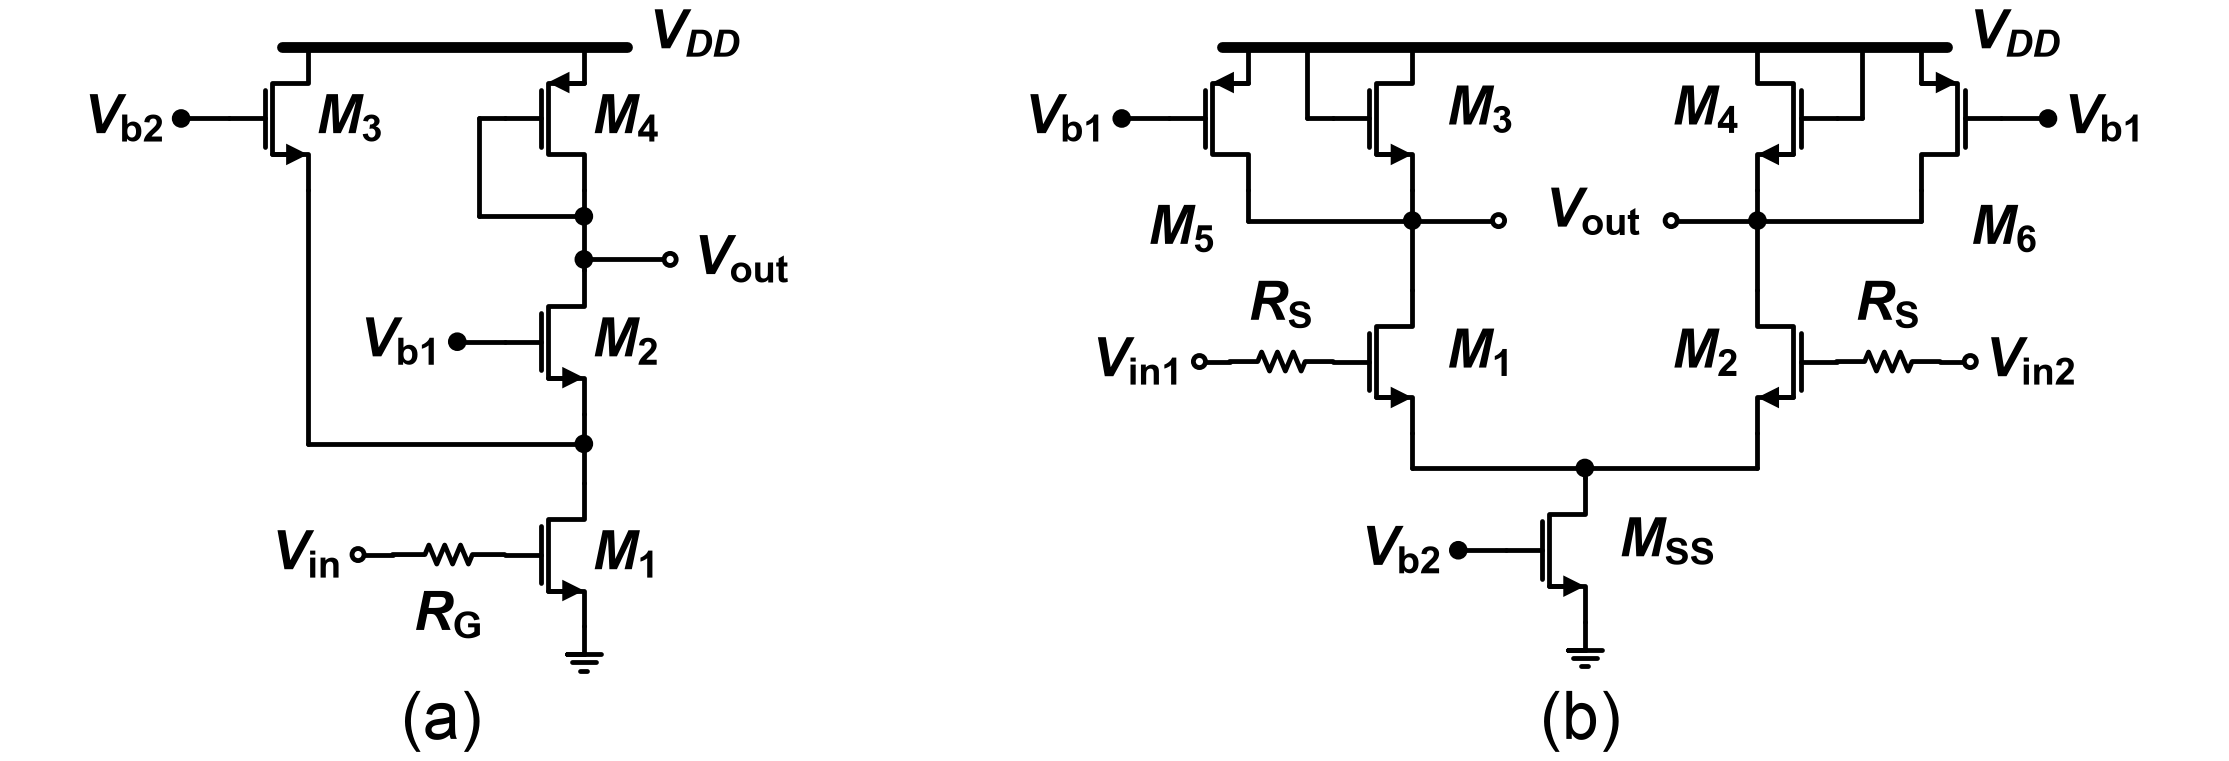
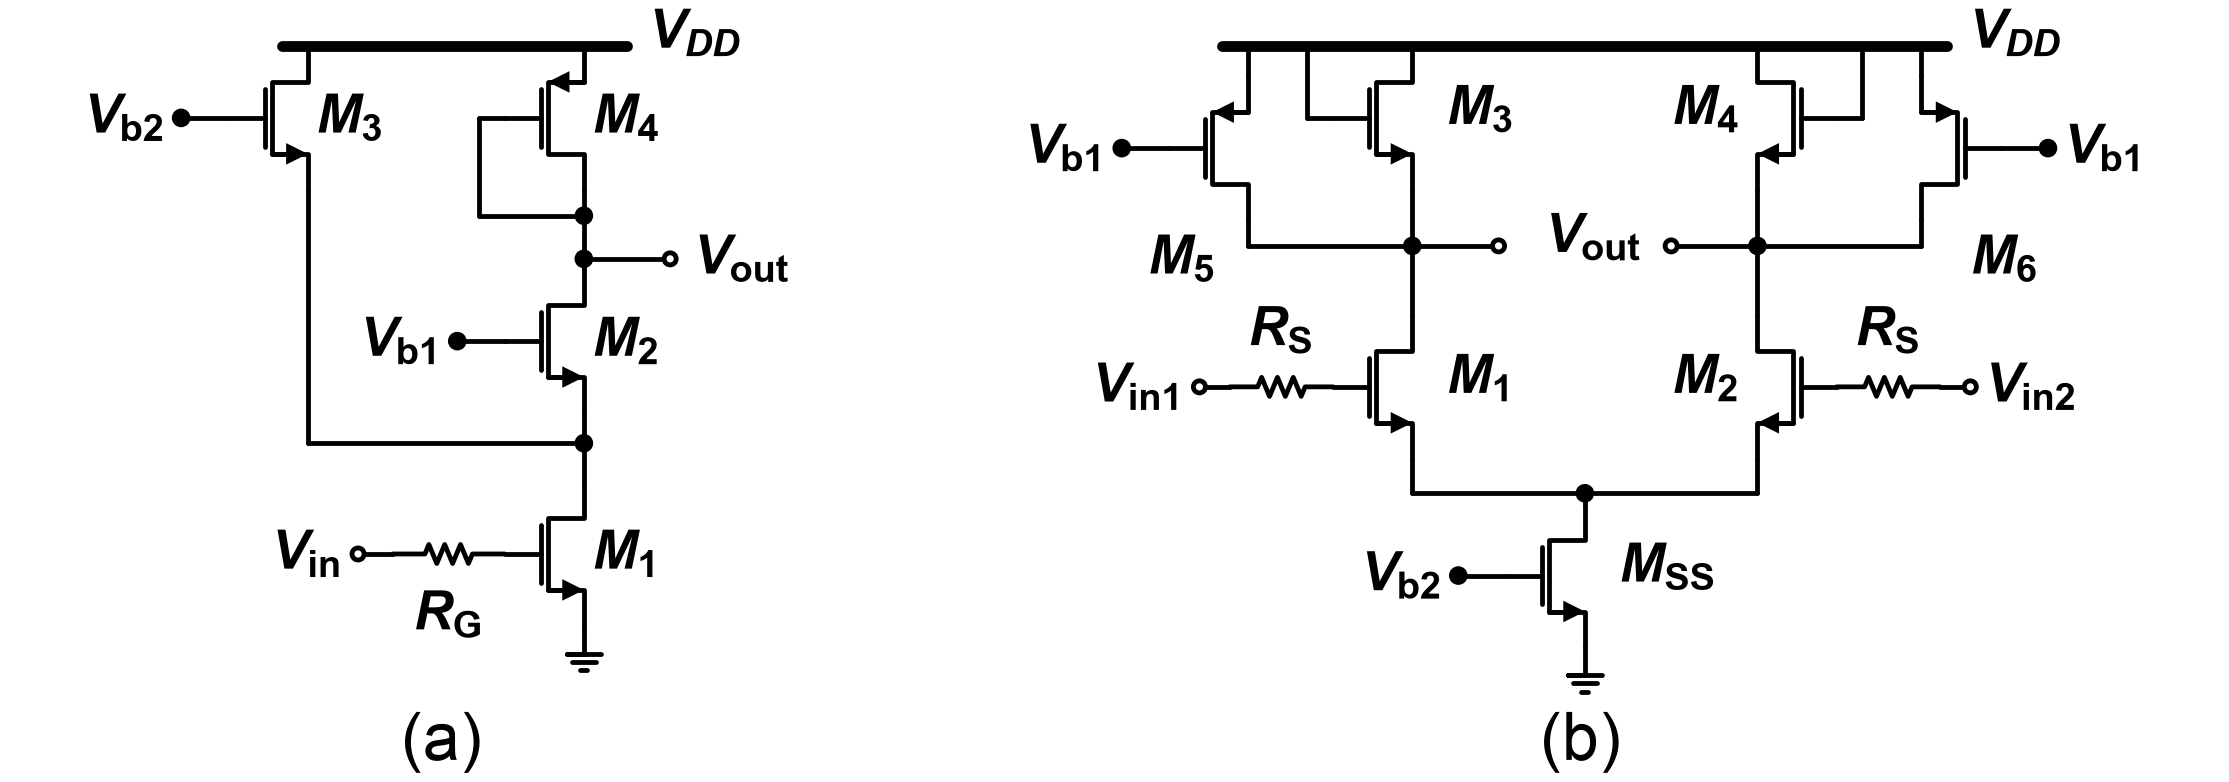
fix(2023-1 기말): apply redraw review

diff --git a/from_the_past/md/2023-1_기말/figures/redrawn/fig-Q1.py b/from_the_past/md/2023-1_기말/figures/redrawn/fig-Q1.py
@@ -5,6 +5,7 @@ from schem_style import OPEN_R, Resistor, caption, dot, gate_terminal, new_drawi
 L = 0.12       # 소자 사이 짧은 배선
 GAP = 0.2      # 소자 라벨과 기호 사이 간격
 RAIL_Y = 8.0   # 두 패널의 V_DD 레일 높이
+STUB = 0.35    # (b) M5/M6 소스와 레일 사이 세로선
 
 
 def vdd_label(d, x_end):
@@ -52,13 +53,15 @@ def half_b(d, xo, mirror):
     """(b)의 한쪽: xo = 출력 세로줄(M3/M4, out, M1/M2). 바깥쪽 pmos M5/M6."""
     out = 1 if mirror else -1          # 바깥 쪽 부호
     xp = xo + out * 1.9                # M5/M6 소스 세로줄
-    mp = pmos(d, at=(xp, RAIL_Y), anchor="source", mirror=mirror)
+    # hwp 원본처럼 M5/M6는 M3/M4보다 조금 낮고, 소스가 짧은 세로선으로 레일에 붙는다
+    d.add(elm.Line().down().at((xp, RAIL_Y)).length(STUB))
+    mp = pmos(d, at=d.here, anchor="source", mirror=mirror)
     gate_terminal(d, mp.gate, r"$V_\mathrm{b1}$", right=mirror)
     mn = nmos(d, at=(xo, RAIL_Y), anchor="drain", mirror=mirror)
     # M3/M4 게이트 → 바깥으로 짧게 → 위로 레일
     d.add(elm.Line().at(mn.gate).tox(mn.gate.x + out * 0.3))
     d.add(elm.Line().up().toy(RAIL_Y))
-    d.add(elm.Line().down().at(mn.source).length(0.35)); o = dot(d)
+    d.add(elm.Line().down().at(mn.source).length(STUB + 0.3)); o = dot(d)
     # M5/M6 드레인 → 조금 아래 → 안쪽으로 출력 접속점
     d.add(elm.Line().down().at(mp.drain).toy(o.center.y))
     d.add(elm.Line().at((xp, o.center.y)).tox(xo))

diff --git a/docs/superpowers/reports/redraw/2023-1_기말.md b/docs/superpowers/reports/redraw/2023-1_기말.md
@@ -1,0 +1,60 @@
+# 다시 그리기 검토 — 2023-1 기말 (Q1–Q5)
+
+- 대상: `63db526..6bfde7c` (fig-Q1…Q5 `.py`/`.png` 10개만 추가됨)
+- 절차 C 적용. `draw_exam.py --compare` 실행 결과 ERROR·WARN 없음, 종료 코드 0. 실행 뒤 `git status --short` 깨끗함(다시 그린 PNG가 커밋본과 같음).
+- 라벨 간격은 작성자 스크립트를 다시 돌린 것과 별도로, `save_png`와 같은 기하(`subplots_adjust(0,0,1,1)`, 432 dpi, 86.4 px/단위)로 직접 다시 쟀다. 두 결과는 0.01단위 안에서 같다.
+
+## 지적 표
+
+| 그림 | 항목 | 문제 | 제안 |
+|---|---|---|---|
+| Q1(a) | 넷리스트 연결 | 지적 없음. M4 다이오드 연결(게이트→왼쪽→아래→위 V_out 점), M3 드레인=레일·소스→n1, M2 게이트←V_b1, R_G: V_in→M1 게이트, M1 소스 접지 모두 맞음 | — |
+| Q1(a) | 접속점·교차 | 지적 없음. 점 3개(위 Vout, 아래 Vout, n1), 교차 없음 | — |
+| Q1(a) | 표시·방향 | 지적 없음. M 라벨 모두 오른쪽, R_G 아래, V_b2/V_b1/V_in 왼쪽, V_out 오른쪽, nmos 화살표 바깥·pmos 화살표 안쪽 | — |
+| Q1(b) | 넷리스트 연결 | 지적 없음. M3/M4 게이트→바깥→레일, M5/M6 드레인→아래→안쪽 out 점, M1/M2 드레인=out1/out2, 소스→n3→M_SS, R_S 두 개, V_b1 두 개, V_b2 | — |
+| Q1(b) | 접속점·표시 | 지적 없음. 점 3개(out1, out2, n3). M4·M6·M2 좌우 반전, M4/M2 라벨 왼쪽, M3/M1/M_SS 오른쪽, V_out 하나가 두 원 사이 | — |
+| Q1(b) | hwp 대조 (모양) | Minor. hwp에서는 M5/M6가 M3/M4보다 조금 낮고 소스가 짧은 세로선으로 레일에 붙는다. 다시 그린 그림은 네 소자 모두 레일에 바로 붙는다. 연결에는 영향 없음 | 그대로 두어도 됨. 원본에 더 맞추려면 M5/M6를 0.3–0.4단위 내리고 소스 세로선을 넣는다 |
+| Q2 | 넷리스트·접속점·표시 | 지적 없음. R_D→n1, M2 게이트→왼쪽→아래→n1, M1 좌우 반전(게이트→V_b, 화살표 왼쪽 바깥), n2–R_F–Vout, R_M 접지, I_in 화살표 위. 점 3개, 라벨 쪽 모두 맞음 | — |
+| Q3 | 넷리스트 연결 | 지적 없음. M5·M6 게이트 공통선 가운데 점→아래→n1(다이오드), X→M3 드레인·M5 드레인, X→오른쪽→위→M1 게이트, M1→I_out→Laser→n3→R_M→접지, M4 게이트→n3 곧게, M3/M4 소스→n4→I_SS(아래)→접지 | — |
+| Q3 | 접속점·교차 | 지적 없음. 점 5개, X선이 n1–M4 세로선과 점 없이 교차 1곳 | — |
+| Q3 | Laser 상자 | 지적 없음. 선 네 개와 "Laser" 라벨로 그렸고 원본과 같은 모양으로 읽힌다(컨트롤러 설명대로 의도한 방식) | — |
+| Q3 | 표시·방향 | 지적 없음. M5·M4 좌우 반전, M5/M4 라벨 왼쪽, M6/M1/M3 오른쪽, X 왼쪽, I_out 아래 방향 화살표에 라벨 오른쪽, I_SS 아래 방향·라벨 오른쪽 | — |
+| Q4 | 넷리스트·연산증폭기 입력 | 지적 없음. + 입력(위)=n3, − 입력(아래)→왼쪽→아래→증폭기 밑→Vout. R2: n2→위→오른쪽→Vout. R1: n3→접지. 전압원 +/− 원 오른쪽 위/아래 | — |
+| Q4 | 접속점 | 지적 없음. 점 3개(n2, n3, Vout). Vout 점에서 R2 선·귀환선이 한 세로선으로 만나 4갈래가 됨(md와 같음) | — |
+| Q5 | 넷리스트·연산증폭기 입력 | 지적 없음. 두 증폭기 모두 − 위(n1, n2), + 아래 접지. R3·C1이 n1–Vout 사이, C2가 n2–Y, Y→−1→X→위→R4→n1 세로선 위 끝(모서리, 점 없음) | — |
+| Q5 | 접속점 | 지적 없음. 점 7개(n1 R3·C1·− 입력 높이, 위/아래 Vout, n2, Y), 교차 없음. 점선만 X 세로선을 지나며 원본과 같음 | — |
+| Q5 | −1 블록 크기 | Minor. 삼각형이 2.2×2.1단위로 원본(약 1.7×1.4)보다 커서 연산증폭기와 크기가 비슷하다. 그래도 +/− 부호가 없고 "−1"과 점선 원이 있어 원본처럼 이득 −1 블록으로 읽힌다. "−1" 간격이 0.212단위라 더 줄이면 간격 규칙을 어긴다 | 그대로 둔다(컨트롤러 설명대로 의도한 확대) |
+| 전체 | 라벨 간격 | 지적 없음. 소자·노드 라벨 최소 간격 0.207(Q4 "−"), 0.208(Q2 I_in), 0.212(Q5 "−1"), 0.218(Q1 M1), 0.220(Q5 Y), 0.221(Q3 M4). 0.2 미만은 단자 라벨과 자기 단자 점 사이(0.116–0.188)뿐이며 예외 대상. 자기 점을 빼면 모두 ≥ 0.359 | — |
+| 전체 | .py 규칙 | 지적 없음. `.label()`은 모두 add 전 체인, 트랜지스터는 `nmos`/`pmos`에 `at`/`anchor` 인자, FET에 `scale()` 없음(`scale`은 접지·전류원·전압원에만), `FONT_SIZE`·`LW`·`INCHES_PER_UNIT` 재정의 없음. 파일별 `GAP`·`L`·`RAIL_Y`·`BOX_W` 등은 배치용 상수. Q5의 `Triangle`/`DottedRing`은 전용 기호가 없어 둔 작은 클래스이며 `LW`를 씀 | — |
+
+## 손글씨 확인 (`> 참고:` 항목)
+
+| 그림 | 손글씨 항목 | 다시 그린 그림 |
+|---|---|---|
+| Q1(a) | C_GS3, C_SB3, C_GD2, C_GS2, C_SB2, C_DB2, C_GD1, C_GS1, C_DB1, C_GS4, C_DB4 커패시터와 연결선 | 없음 |
+| Q1(a) | n1 오른쪽 위 빨간 "×" | 없음 |
+| Q1(a) | M4 게이트 선에서 레일까지 오르는 C_GS4 선(세로 부분 포함) | 없음. M4 게이트는 다이오드 연결선만 있음 |
+| Q1(b) | C_DB5, C_SB3, C_GS3, C_GD5, C_GD1, C_GS1, C_DB1 커패시터와 연결선 | 없음 |
+| Q1(b) | V_DD 라벨 아래 획 | 없음 |
+| Q1(b) | "Miller's theorem", "(1−A_v)C" | 없음 |
+| Q2 | n1 아래 "×" | 없음 |
+| Q2 | n2 오른쪽 작은 "×"와 접지 | 없음 |
+| Q2 | n2 아래 저항·"R_F"·접지 | 없음 (R_F는 인쇄된 가로 저항 하나뿐) |
+| Q2 | R_F 라벨 아래 곡선 | 없음 |
+| Q3 | M1 드레인 옆 오른쪽으로 나가는 선 | 없음 |
+| Q3 | Laser 오른쪽 "R_L" | 없음 |
+| Q3 | M4 게이트 선 위 작은 원·"×"·"DL" | 없음. 게이트 선은 n3까지 끊김 없음 |
+| Q3 | M4 게이트 선 아래 저항·"R_M"·접지 | 없음 (R_M은 n3 아래 인쇄된 저항 하나뿐) |
+| Q3 | "open" 두 곳과 곡선, "openloop" | 없음 |
+| Q4 | n2 아래 "Y", n3 오른쪽 아래 "x" | 없음 |
+| Q4 | R1 아래 "k₁" 비슷한 글자 | 없음 |
+| Q4 | C2 위·R2 아래 흐린 획 | 없음 |
+| Q5 | n1 아래 접속점 아래 "o" | 없음 |
+| Q5 | 오른쪽 위 손글씨 곡선 끝 | 없음 |
+| Q5 | −1 블록 점선 원과 점선 (인쇄된 것) | 그려져 있음 (의도대로) |
+
+## Q1(b)와 hwp `BIN0001.PNG` 대조
+
+연결은 hwp 원본과 모두 같다. M5·M6 pmos의 게이트는 바깥 V_b1 점 단자로, 소스는 레일로, 드레인은 아래로 내려가 안쪽 out 점으로 간다. M3·M4 nmos는 드레인이 레일에 붙고, 게이트가 바깥으로 짧게 나갔다가 위로 레일에 이어지며, 소스는 out 점으로 간다. M1·M2는 out 점 아래에 있고 R_S를 거쳐 V_in1·V_in2 원에서 게이트로 들어간다. 소스는 한 가로선으로 모여 n3 점을 지나 M_SS 드레인으로 가고, M_SS 게이트는 V_b2, 소스는 접지다. 좌우 반전(M4, M6, M2), 화살표 방향, 라벨 위치(M5 아래 왼쪽, M6 아래 오른쪽, M4·M2 왼쪽, M3·M1·M_SS 오른쪽, R_S 위, V_out 하나가 두 원 사이)도 hwp와 같다.
+
+다른 점은 모양뿐이다. hwp에서는 M5/M6가 조금 낮고 소스 세로선이 짧게 있다(Minor, 위 표). V_DD 첨자는 hwp가 정자체지만, 공통 스타일 규칙(`r"$V_{DD}$"`)을 따른 것이라 지적하지 않는다.
